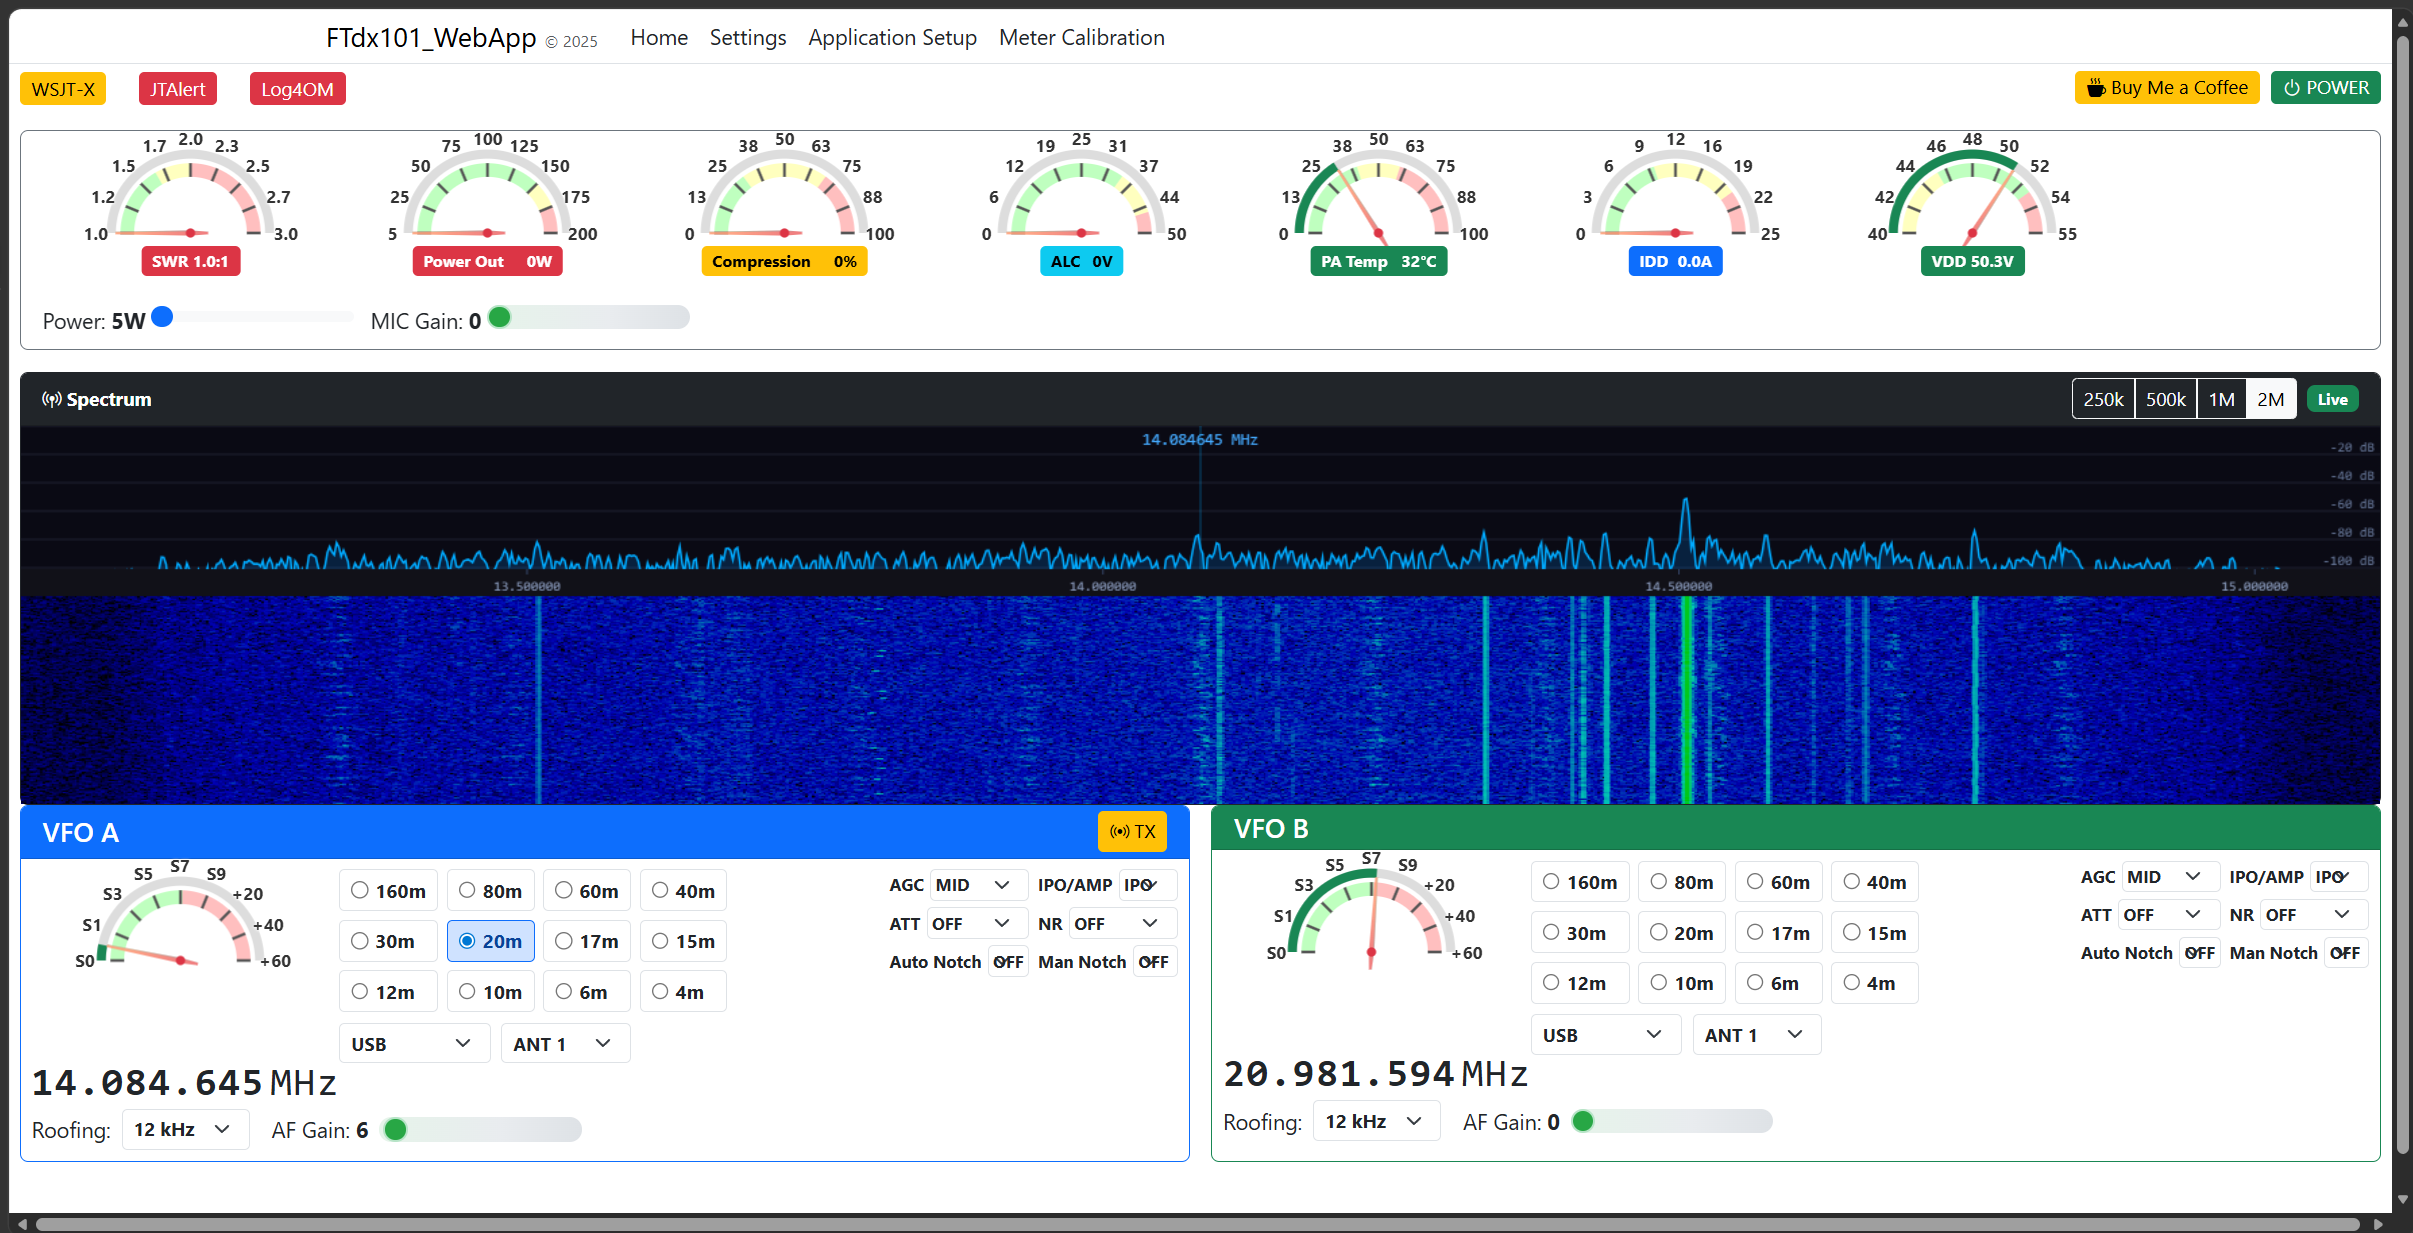
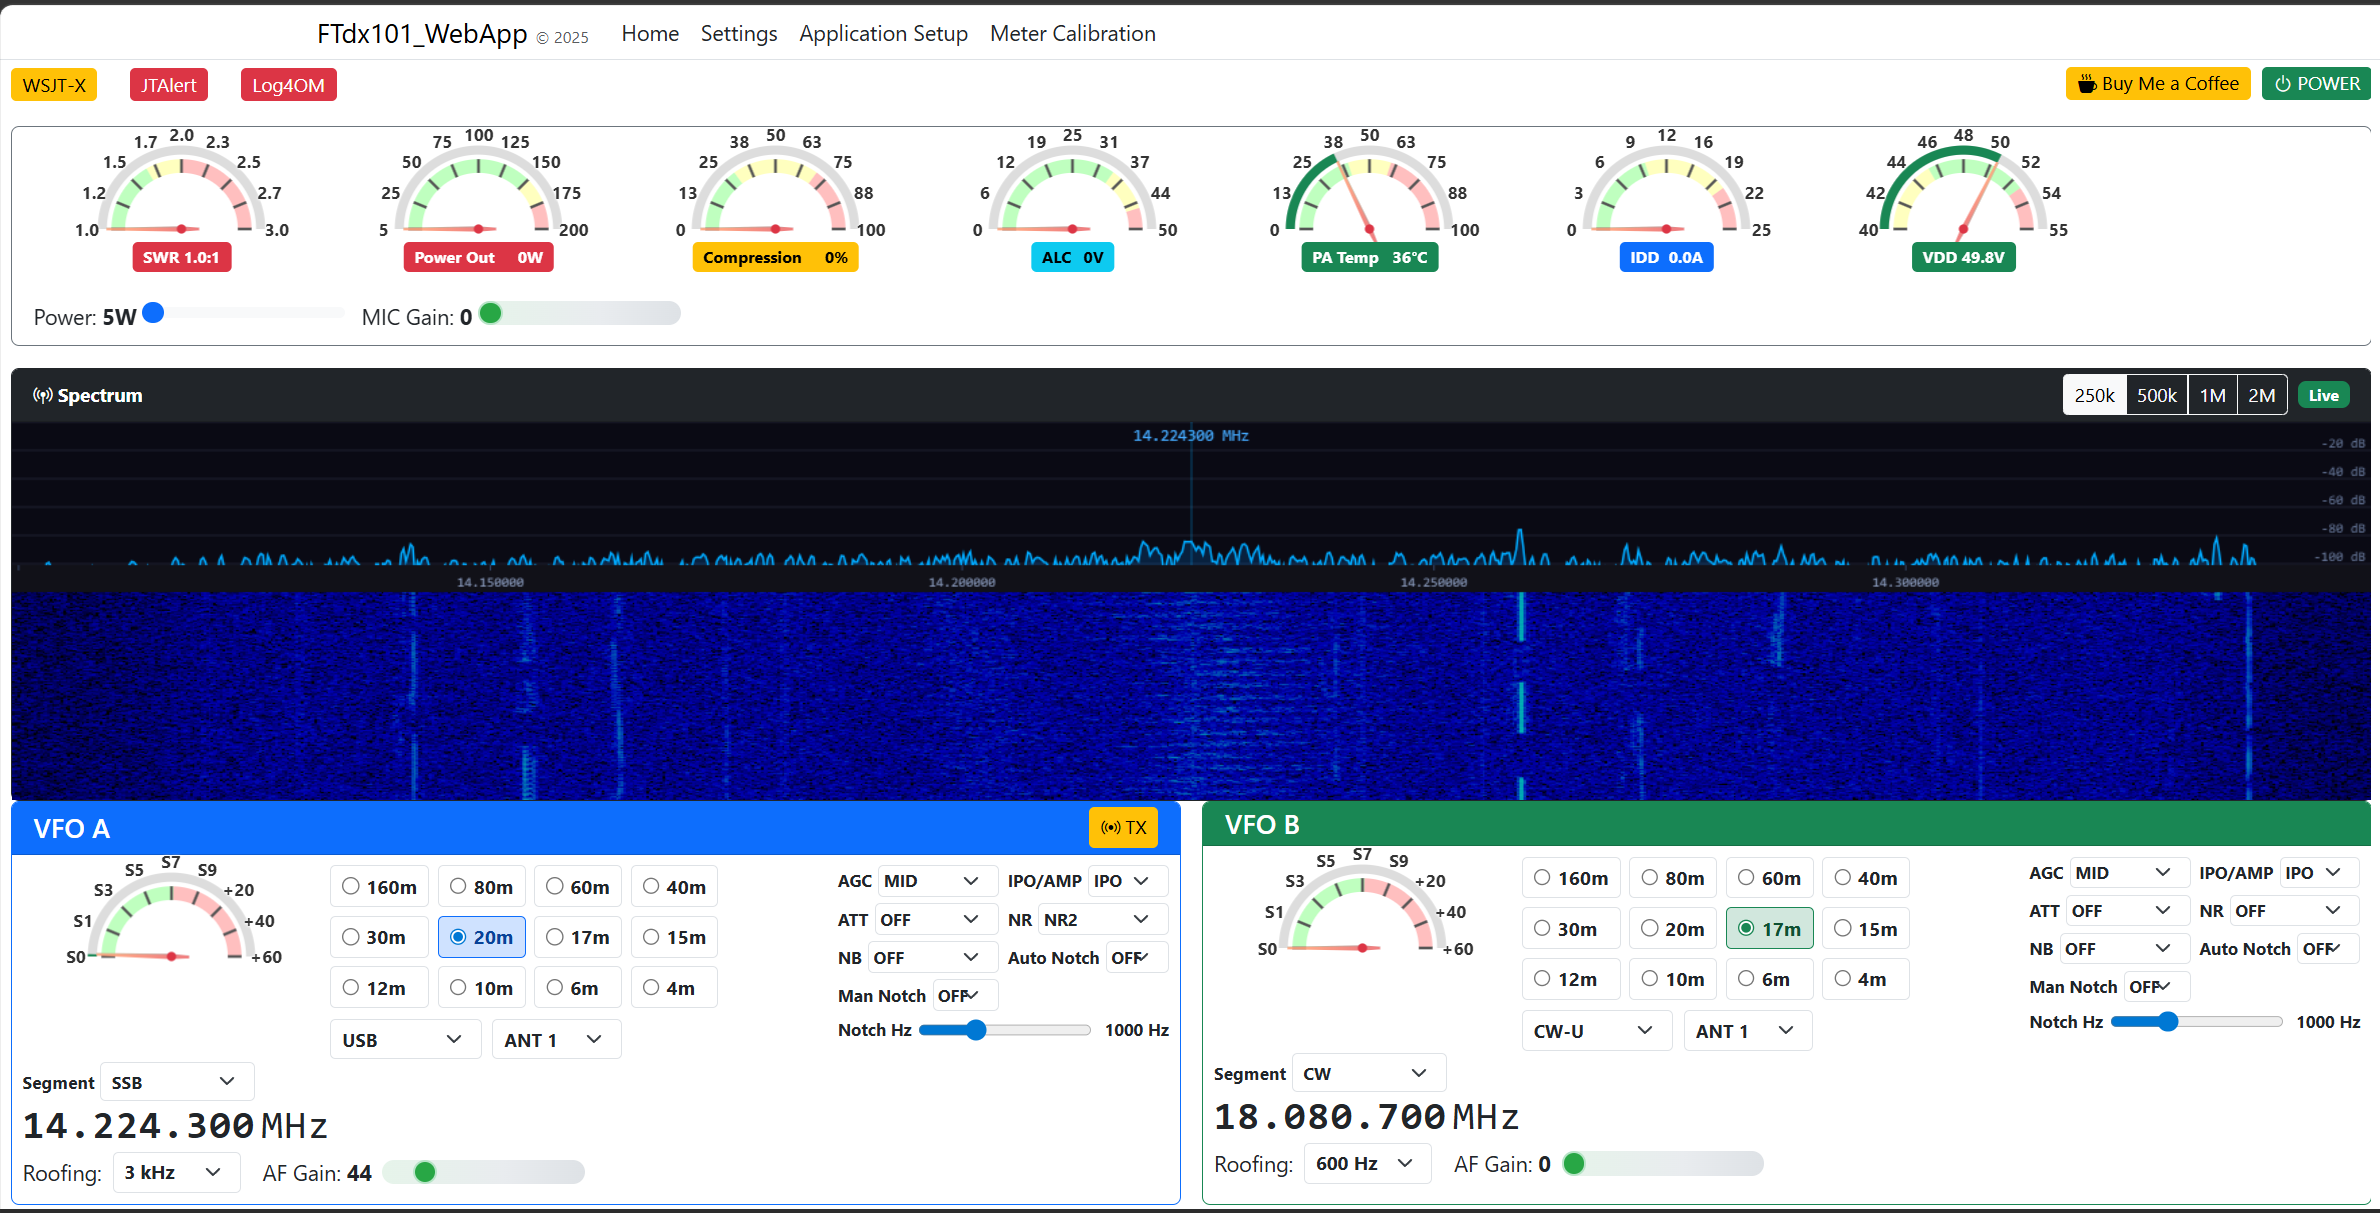
Update main page screenshot

diff --git a/README.md b/README.md
@@ -70,6 +70,21 @@ The application includes a real-time spectrum display and waterfall, intended fo
 
 ### Changed
 
+- Release notes: v1.0.0
+- Release v1.0.0: band segments, NB, manual notch slider, spectrum crosshair
+- Update README: SoapySDR bundled, no separate install needed
+- Release notes: v0.9.0-rc1
+- Pre-release: pending changes for v0.9.0-rc1
+- Release notes: v0.9.0-rc1
+- Pre-release: pending changes for v0.9.0-rc1
+- Release notes: v0.9.0-rc1
+- Pre-release: pending changes for v0.9.0-rc1
+
+
+## 2026-04-21 - v1.0.0
+
+### Changed
+
 - Release v1.0.0: band segments, NB, manual notch slider, spectrum crosshair
 - Update README: SoapySDR bundled, no separate install needed
 - Release notes: v0.9.0-rc1
